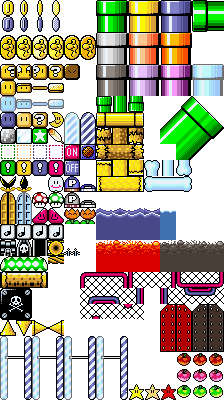
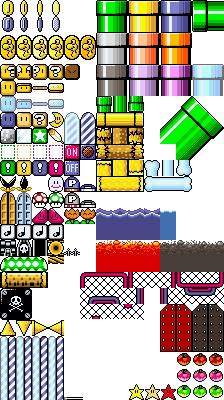
Add midway gate class

Changed region(s): [[0.0, 0.84, 0.5938, 1.0]]

diff --git a/MidwayGate.cpp b/MidwayGate.cpp
@@ -1,0 +1,67 @@
+#include "stdafx.h"
+
+#include "MidwayGate.h"
+#include "Game.h"
+#include "SpriteSheetManager.h"
+#include "SpriteSheet.h"
+#include "SoundManager.h"
+
+MidwayGate::MidwayGate(DOUBLE2 topLeft, Level* levelPtr, int barHeight) :
+	Item(topLeft + DOUBLE2(5, TILES_HIGH * TILE_SIZE - barHeight), Item::TYPE::MIDWAY_GATE, levelPtr, 
+		BodyType::STATIC, TILES_WIDE * TILE_SIZE - 12, BAR_HEGHT),
+	m_TopLeft(topLeft), m_BarHeight(barHeight)
+{
+	m_AnimInfo.secondsPerFrame = 0.14;
+
+	m_ActPtr->SetSensor(true);
+}
+
+MidwayGate::~MidwayGate()
+{
+}
+
+
+void MidwayGate::Tick(double deltaTime)
+{
+	m_AnimInfo.Tick(deltaTime);
+	m_AnimInfo.frameNumber %= 4;
+}
+
+void MidwayGate::Paint()
+{
+	double left = m_TopLeft.x;
+	double top = m_TopLeft.y;
+
+	double x = left;
+	double y = top;
+	RECT2 srcRect;
+
+	double srcX = m_AnimInfo.frameNumber * POLE_WIDTH * 2;
+	srcRect = RECT2(srcX, 336, srcX + POLE_WIDTH, 400);
+	GAME_ENGINE->DrawBitmap(SpriteSheetManager::generalTilesPtr->GetBitmap(), DOUBLE2(x, y), srcRect);
+
+	srcX += POLE_WIDTH;
+	x += TILES_WIDE * TILE_SIZE - POLE_WIDTH;
+	srcRect = RECT2(srcX, 336,  srcX + POLE_WIDTH, 400);
+	GAME_ENGINE->DrawBitmap(SpriteSheetManager::generalTilesPtr->GetBitmap(), DOUBLE2(x, y), srcRect);
+
+
+	if (m_IsHit) srcRect = RECT2(64, 397, 67, 400);
+	else srcRect = RECT2(64, 397, 83, 400);
+
+	x = m_ActPtr->GetPosition().x - (TILES_WIDE * TILE_SIZE - 12)/2;
+	y = m_ActPtr->GetPosition().y - BAR_HEGHT/2 - 1;
+	GAME_ENGINE->DrawBitmap(SpriteSheetManager::generalTilesPtr->GetBitmap(), DOUBLE2(x, y), srcRect);
+}
+
+void MidwayGate::Hit()
+{
+	m_IsHit = true;
+
+	SoundManager::PlaySoundEffect(SoundManager::SOUND::MIDWAY_GATE_PASSTHROUGH);
+}
+
+bool MidwayGate::IsHit()
+{
+	return m_IsHit;
+}

diff --git a/Level.cpp b/Level.cpp
@@ -20,6 +20,7 @@
 #include "MontyMole.h"
 #include "SuperMushroom.h"
 #include "KoopaShell.h"
+#include "MidwayGate.h"
 
 #define GAME_ENGINE (GameEngine::GetSingleton())
 
@@ -246,7 +247,7 @@ void Level::Paint()
 	m_CameraPtr->DEBUGPaint();
 #endif
 
-#if 0
+#if 1
 	GAME_ENGINE->SetColor(COLOR(0, 0, 0));
 	GAME_ENGINE->SetFont(Game::Font12Ptr);
 	GAME_ENGINE->DrawString(String("pos: ") + m_PlayerPtr->GetPosition().ToString(), 10, 193);
@@ -701,6 +702,15 @@ void Level::BeginContact(PhysicsActor *actThisPtr, PhysicsActor *actOtherPtr)
 			case Item::TYPE::BEANSTALK:
 			{
 				m_PlayerPtr->SetOverlappingWithBeanstalk(true);
+			} break;
+			case Item::TYPE::MIDWAY_GATE:
+			{
+				MidwayGate* midwayGatePtr = (MidwayGate*)itemPtr;
+				if (midwayGatePtr->IsHit() == false)
+				{
+					m_PlayerPtr->MidwayGatePasshrough();
+					midwayGatePtr->Hit();
+				}
 			} break;
 			}
 		} break;

diff --git a/LevelData.cpp b/LevelData.cpp
@@ -3,6 +3,7 @@
 #include "LevelData.h"
 #include "Enumerations.h"
 #include "Level.h"
+#include "Player.h"
 
 #include "Entity.h"
 #include "Enemy.h"
@@ -26,6 +27,7 @@
 #include "KoopaShell.h"
 #include "Beanstalk.h"
 #include "CloudBlock.h"
+#include "MidwayGate.h"
 
 LevelData* LevelData::m_LevelOneDataPtr = nullptr;
 
@@ -139,9 +141,14 @@ LevelData::LevelData(std::string platforms, std::string pipes, std::string items
 		{
 			m_ItemsPtrArr.push_back(new ThreeUpMoon(topLeft, levelPtr));
 		} break;
-		case int(Item::TYPE::CLOUD_BLOCK):
+		case int(Item::TYPE::CLOUD_BLOCK) :
 		{
 			m_ItemsPtrArr.push_back(new CloudBlock(topLeft, levelPtr));
+		} break;
+		case int(Item::TYPE::MIDWAY_GATE) :
+		{
+			int barHeight = stoi(FileIO::GetTagContent(itemContent, "BarHeight"));
+			m_ItemsPtrArr.push_back(new MidwayGate(topLeft, levelPtr, barHeight));
 		} break;
 		default:
 		{

diff --git a/Item.cpp b/Item.cpp
@@ -53,6 +53,7 @@ std::string Item::TYPEToString(TYPE type)
 	case TYPE::EXCLAMATION_MARK_BLOCK: return "ExclamationMarkBlock";
 	case TYPE::BEANSTALK: return "Beanstalk";
 	case TYPE::CLOUD_BLOCK: return "Cloud";
+	case TYPE::MIDWAY_GATE: return "MidwayGate";
 	default:
 	{
 		OutputDebugString(String("ERROR: Unhandled item type in Item::TYPEToString: ") + String(int(type)) + String("\n"));
@@ -84,6 +85,7 @@ Item::TYPE Item::StringToTYPE(std::string string)
 	else if (!string.compare("ExclamationMarkBlock")) return TYPE::EXCLAMATION_MARK_BLOCK;
 	else if (!string.compare("Beanstalk")) return TYPE::BEANSTALK;
 	else if (!string.compare("Cloud")) return TYPE::CLOUD_BLOCK;
+	else if (!string.compare("MidwayGate")) return TYPE::MIDWAY_GATE;
 	else
 	{
 		OutputDebugString(String("ERROR: Unhandled item type in Item::TYPEToString: ") + String(string.c_str()) + String("\n"));

diff --git a/SpriteSheetManager.cpp b/SpriteSheetManager.cpp
@@ -60,7 +60,7 @@ void SpriteSheetManager::Load()
 
 	superMarioPtr = new SpriteSheet(String("Resources/super-mario.png"), 8, 3, 18, 32);
 	superMarioPtr->SetTransparencyColor(COLOR(80, 128, 255));
-	generalTilesPtr = new SpriteSheet(String("Resources/general-tiles.png"), 14, 24, 16, 16);
+	generalTilesPtr = new SpriteSheet(String("Resources/general-tiles.png"), 14, 25, 16, 16);
 	beanstalkPtr = new SpriteSheet(String("Resources/beanstalk.png"), 1, 3, 16, 16);
 
 	coinCollectParticlePtr = new SpriteSheet(String("Resources/coin-collect-particle.png"), 10, 1, 16, 28);

diff --git a/MidwayGate.h b/MidwayGate.h
@@ -1,0 +1,24 @@
+#pragma once
+#include "Item.h"
+class MidwayGate : public Item
+{
+public:
+	MidwayGate(DOUBLE2 topLeft, Level* levelPtr, int barHeight);
+	virtual ~MidwayGate();
+
+	void Tick(double deltaTime);
+	void Paint();
+	void Hit();
+
+	bool IsHit();
+
+private:
+	static const int TILES_WIDE = 2;
+	static const int TILES_HIGH = 4;
+	static const int BAR_HEGHT = 3;
+	static const int POLE_WIDTH = 8;
+
+	DOUBLE2 m_TopLeft;
+	bool m_IsHit = false;
+	int m_BarHeight;
+};

diff --git a/SoundManager.h b/SoundManager.h
@@ -7,7 +7,7 @@ public:
 	{
 		GAME_PAUSE, PLAYER_JUMP, PLAYER_SPIN_JUMP, PLAYER_SUPER_MUSHROOM_COLLECT, PLAYER_DEATH,
 		COIN_COLLECT, DRAGON_COIN_COLLECT, BLOCK_HIT, BLOCK_BREAK, SUPER_MUSHROOM_SPAWN, MESSAGE_BLOCK_HIT,
-		KOOPA_DEATH, ENEMY_HEAD_STOMP_START, ENEMY_HEAD_STOMP_END,
+		KOOPA_DEATH, ENEMY_HEAD_STOMP_START, ENEMY_HEAD_STOMP_END, MIDWAY_GATE_PASSTHROUGH,
 		// NOTE: All entries must be above this line
 		_LAST_ELEMENT
 	};

diff --git a/SoundManager.cpp b/SoundManager.cpp
@@ -45,6 +45,8 @@ void SoundManager::InitialzeSoundsAndSongs()
 	LoadSound(SOUND::ENEMY_HEAD_STOMP_START, m_ResourcePath + String("enemy-head-stomp-start.wav"));
 	LoadSound(SOUND::ENEMY_HEAD_STOMP_END, m_ResourcePath + String("enemy-head-stomp-end.wav"));
 
+	LoadSound(SOUND::MIDWAY_GATE_PASSTHROUGH, m_ResourcePath + String("midway-gate-passthrough.wav"));
+
 	m_IsInitialized = true;
 }
 

diff --git a/Player.cpp b/Player.cpp
@@ -860,6 +860,15 @@ void Player::OnItemPickup(Item* itemPtr, Level* levelPtr)
 	}
 }
 
+void Player::MidwayGatePasshrough()
+{
+	if (m_PowerupState == POWERUP_STATE::NORMAL)
+	{
+		m_PowerupState = POWERUP_STATE::SUPER;
+		m_NeedsNewFixture = true;
+	}
+}
+
 void Player::ChangePowerupState(POWERUP_STATE newPowerupState, bool isUpgrade)
 {
 	m_PrevPowerupState = m_PowerupState;

diff --git a/Item.h b/Item.h
@@ -13,7 +13,8 @@ public:
 		KOOPA_SHELL,
 		BEANSTALK, CLOUD_BLOCK,
 		SUPER_MUSHROOM, FIRE_FLOWER, CAPE_FEATHER, STAR, POWER_BALLOON,
-		PRIZE_BLOCK, MESSAGE_BLOCK, ROTATING_BLOCK, EXCLAMATION_MARK_BLOCK
+		PRIZE_BLOCK, MESSAGE_BLOCK, ROTATING_BLOCK, EXCLAMATION_MARK_BLOCK,
+		MIDWAY_GATE, GIANT_GATE
 	};
 
 	Item(DOUBLE2 topLeft, TYPE type, Level* levelPtr,

diff --git a/Player.h b/Player.h
@@ -74,6 +74,8 @@ public:
 	bool IsDead();
 	bool IsRunning();
 
+	void MidwayGatePasshrough();
+
 	// NOTE: This should be called every time the player stomps on a KoopaTroopa's head
 	//       Every frames m_FramesUntilEnemyHeadBounceEndSound is decremented, and plays the
 	//		 sound when it reaches 0
